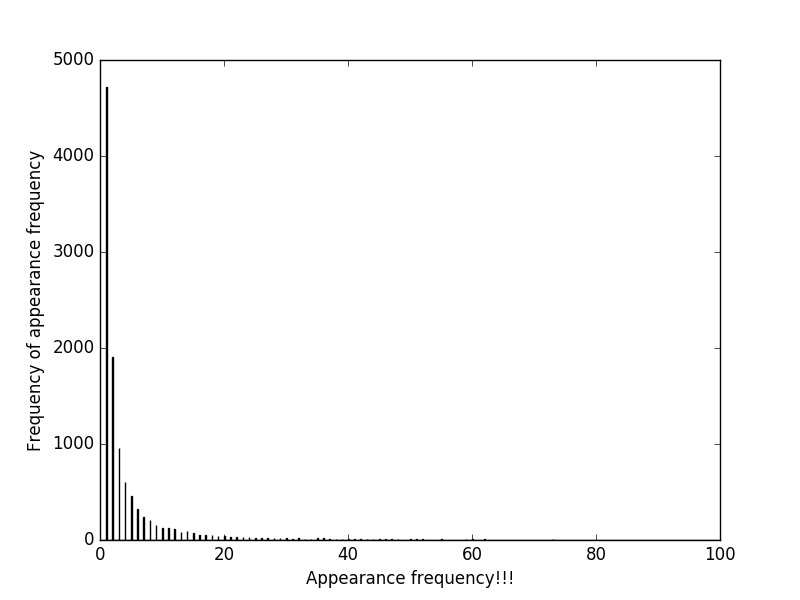
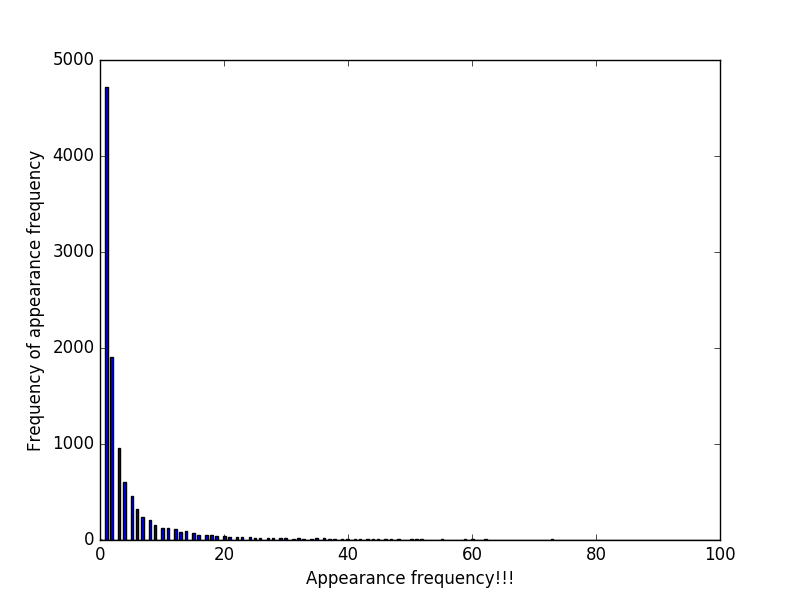
processing

Changed region(s): [[0.125, 0.15, 0.3438, 0.9]]

diff --git a/p38.py b/p38.py
@@ -22,6 +22,7 @@ def plot_Histgram(words_counter):
 	# num of all apeared words
 	num_words = sum(words_counter.values())
 
+	print(Counter(list(words_counter.values())))
 	# x-axis
 	# freq = np.array([words_counter.values()[i] / num_words for i in range(len(words_counter))])
 	freq = list(sorted(words_counter.values()))
@@ -30,7 +31,7 @@ def plot_Histgram(words_counter):
 	plt.ylabel("Frequency of appearance frequency")
 	# plot
 	# plt.hist(freq, bins = 50, normed = True)
-	plt.hist(freq, bins = 1000, range=(0,100))
+	plt.hist(freq, bins = 242, range=(0,100))
 	# save as png
 	plt.savefig("Histgram_of_Appearance_Frequency.png")
 
